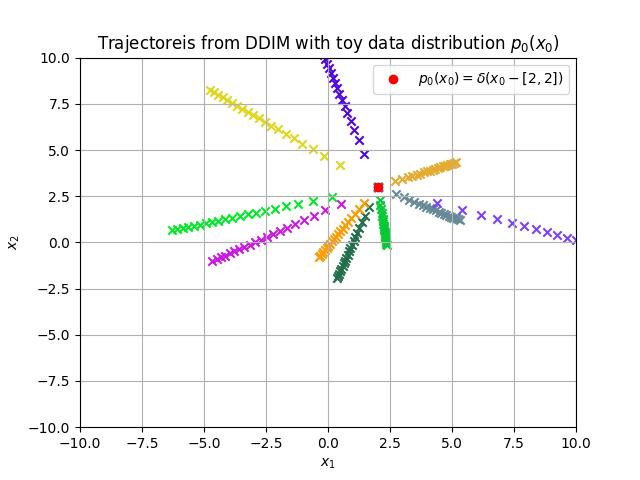
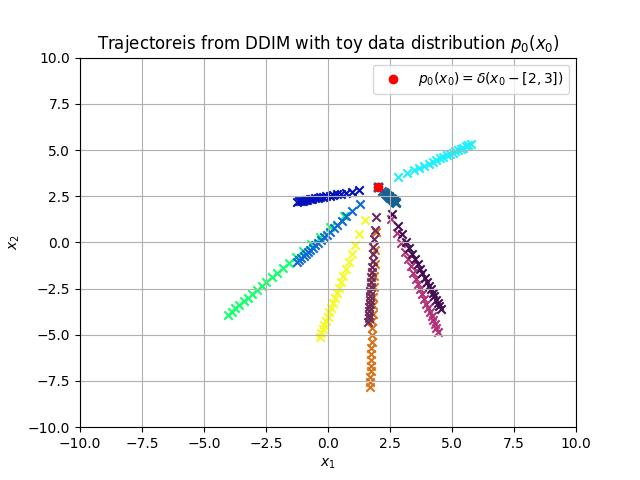
Updating figure

diff --git a/experiments/experiment-1/experiment-1.py b/experiments/experiment-1/experiment-1.py
@@ -79,7 +79,7 @@ if __name__ == "__main__":
         plt.scatter(trajectory[:, 0], trajectory[:, 1], color=random_color, marker='x')
     
     # plot data distribution
-    plt.scatter(a[0], a[1], color='red', marker='o', label=r'$p_{0}(x_{0})=\delta(x_{0} - [2, 2])$')
+    plt.scatter(a[0], a[1], color='red', marker='o', label=r'$p_{0}(x_{0})=\delta(x_{0} - [2, 3])$')
     
     plt.grid()
     plt.xlabel(r'$x_{1}$')
@@ -88,6 +88,6 @@ if __name__ == "__main__":
     plt.ylim([-10, 10])
     plt.legend()
     plt.title('Trajectoreis from DDIM with toy data distribution $p_{0}(x_{0})$')
-    plt.savefig(os.path.join('figures', 'experiment-1-sample-trajectories-ddim.jpg.jpg'))  
+    plt.savefig(os.path.join('figures', 'experiment-1-sample-trajectories-ddim.jpg'))  
     #plt.show()  
     
